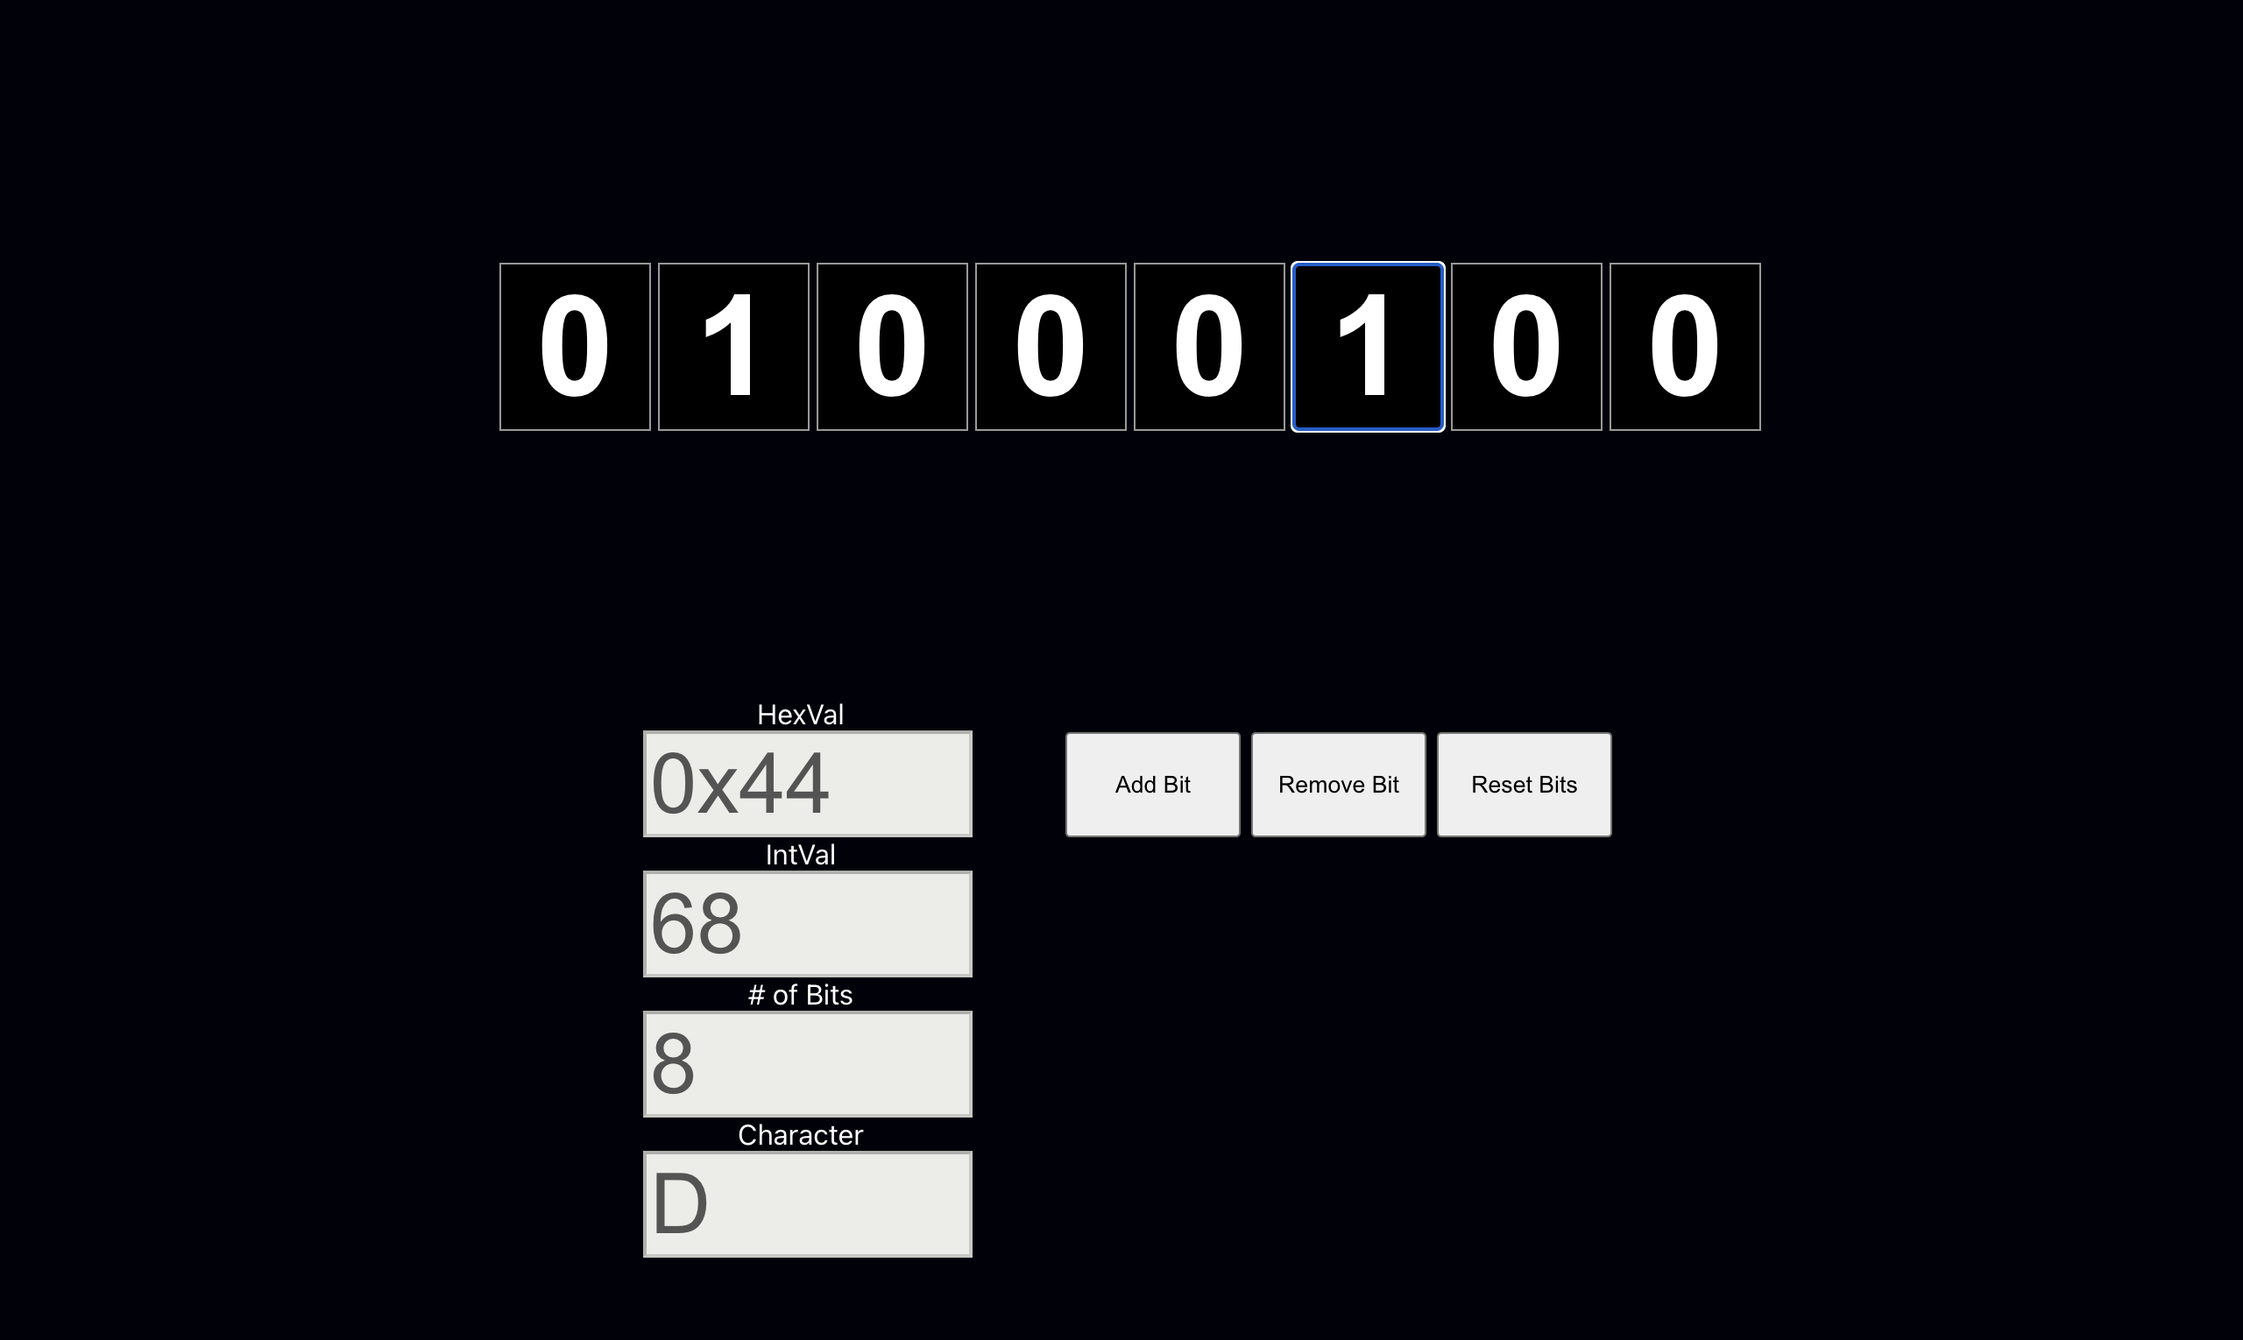
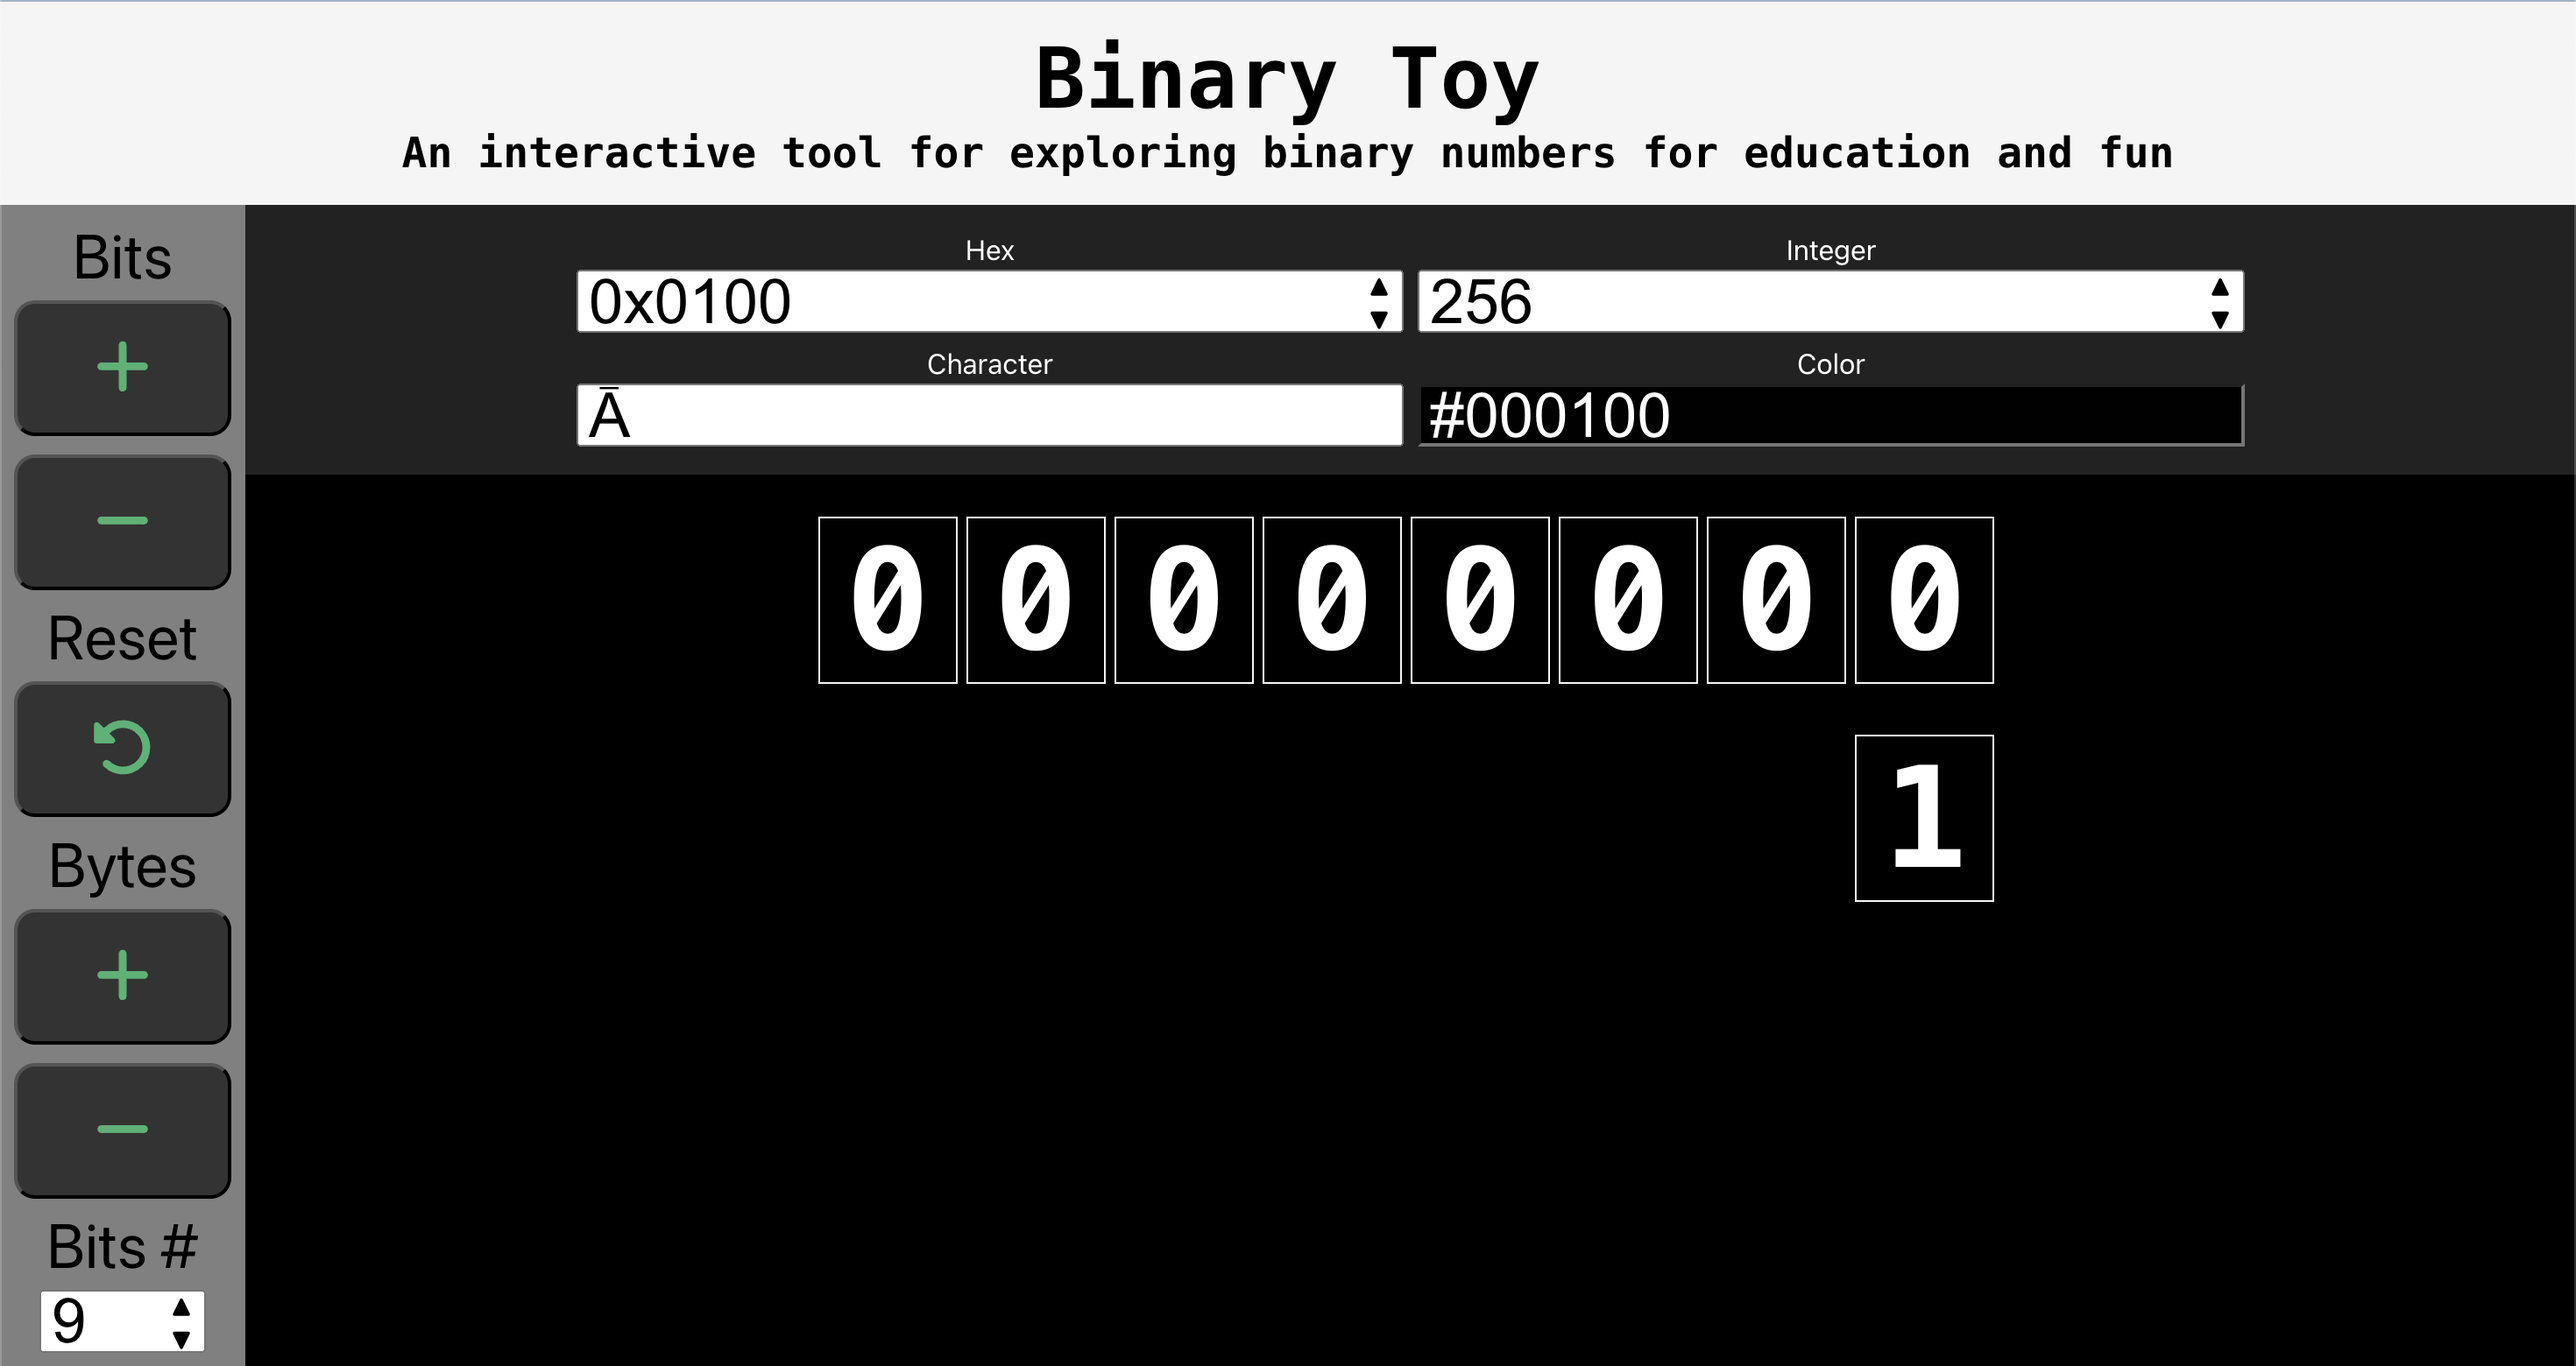
updating readme and image, and restoring default App configuration.

diff --git a/src/App.tsx b/src/App.tsx
@@ -3,7 +3,7 @@ import BitInteraction from './components/BitInteraction';
 function App() {
   return (
     <div className="App">
-      <BitInteraction startingIntValue={256} numberOfBits={9}/>
+      <BitInteraction />
     </div>
   );
 }

diff --git a/README.md b/README.md
@@ -1,6 +1,12 @@
 Very simple sample React project I made for my son to play around with binary numbers as he learns more about computer science.  Also, for me to learn more about front-end development.
 
-TODO: allow user to enter a number (or other item) directly to see the binary number configuration change in real-time
+[![Netlify Status](https://api.netlify.com/api/v1/badges/2a752320-5d57-45ca-912e-1eb8c13387d7/deploy-status)](https://app.netlify.com/sites/binarytoy/deploys)
 
+TODO: Add byte specifc controls (swap, reset, shiftLeft, shiftRight)
+TODO: Fix input boxes to support "enter" and to auto-select when clicked to make it easier to edit
+TODO: Change the bit styling 
+TODO: Add an app settings menu to allow customization of the experience
+TODO: Add ability to change the bits to icons or images (e.g. lightbulbs on or off)
+TODO: Add an interactive explanation of how binary works / tutorial
 
 ![Screenshot](image.png)
